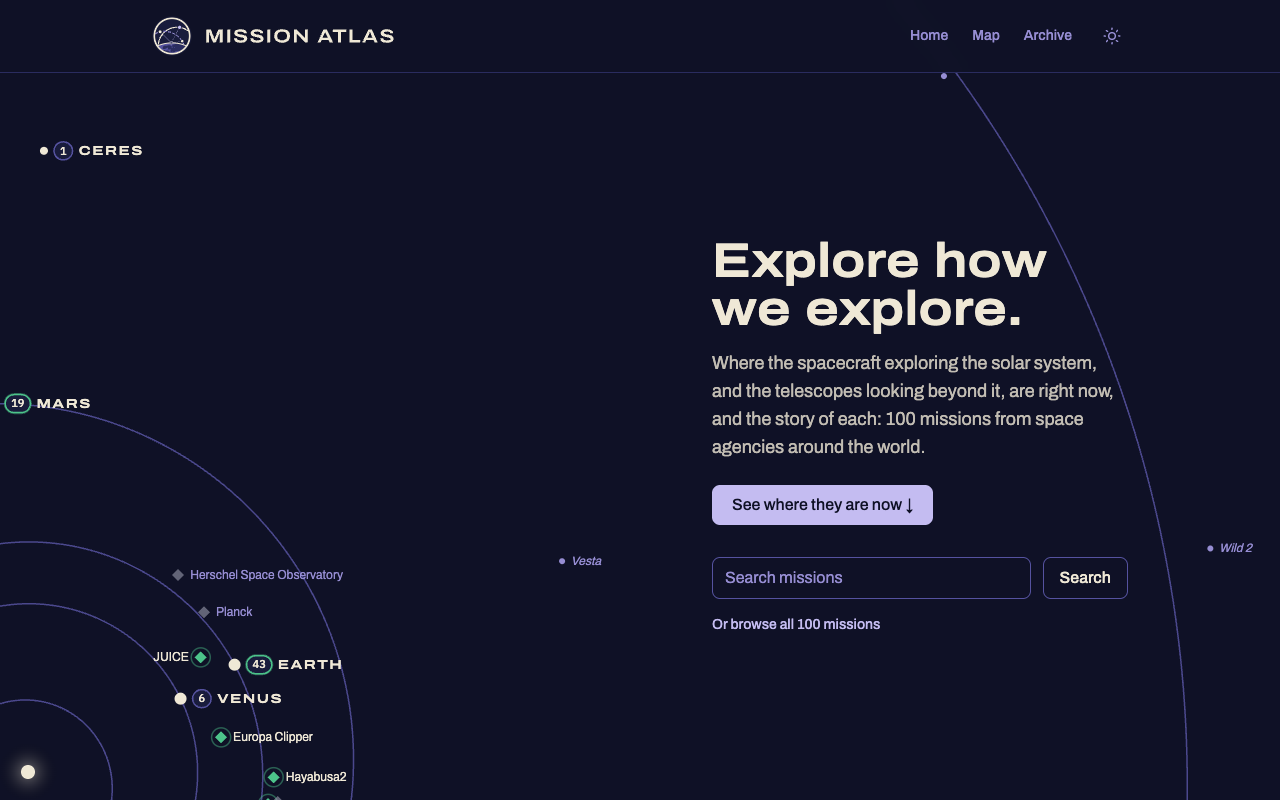
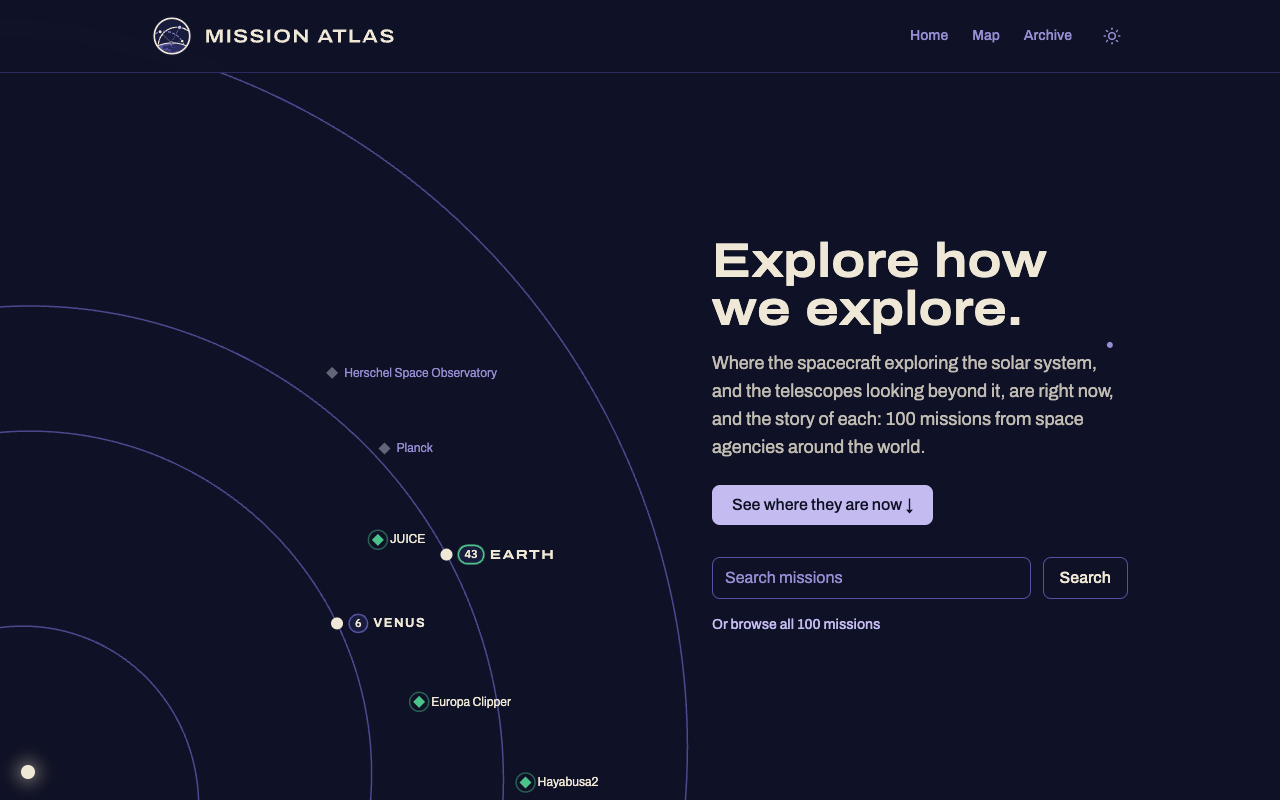
Home hero: zoom in to Mars
The hero's quarter of the map now reaches out to Mars: its orbit spans
the shorter side of the screen, so Mercury, Venus, Earth and the craft
around them fill the corner. On phones, where the search covers most of
the screen, the map fades out behind the text and shows below it.

diff --git a/src/components/map/map-preview.tsx b/src/components/map/map-preview.tsx
@@ -40,11 +40,11 @@ type Props = {
 };
 
 // The hero shows a quarter of the map: the Sun in the bottom-left corner,
-// this far in, and the inner planets large, with Jupiter's orbit the
-// outermost arc, nearly reaching across the longer side of the screen.
+// this far in, and the inner planets close up, with Mars's orbit reaching
+// across the shorter side of the screen.
 const CORNER_INSET = 28;
-const JUPITER_AU = 5.2;
-const JUPITER_SHARE = 0.95;
+const MARS_AU = 1.52;
+const MARS_SHARE = 0.9;
 
 // The map section shows everything out past Jupiter's orbit around the Sun,
 // or just the inner planets on a narrow screen.
@@ -87,7 +87,7 @@ function cameraAt(
   const start = {
     x: CORNER_INSET,
     y: height - CORNER_INSET,
-    scale: (Math.max(width, height) * JUPITER_SHARE) / JUPITER_AU,
+    scale: (Math.min(width, height) * MARS_SHARE) / MARS_AU,
   };
   const end = {
     x: width / 2,

diff --git a/src/components/home-hero.tsx b/src/components/home-hero.tsx
@@ -147,7 +147,9 @@ export default function HomeHero({ craft, names, missionCount }: Props) {
             opacity: "calc(1 - var(--p) * 2.5)",
             transform: "translateY(calc(var(--p) * -3rem))",
           }}
-          className="pointer-events-none absolute inset-x-0 bottom-0 top-[73px] flex items-start justify-end pl-6 pr-(--edge) pt-8 sm:items-center sm:pt-0"
+          // On phones the text covers most of the screen, so the map fades
+          // out behind it and shows below.
+          className="pointer-events-none absolute inset-x-0 bottom-0 top-[73px] flex items-start justify-end bg-linear-to-b from-background from-55% to-transparent to-75% pl-6 pr-(--edge) pt-8 sm:items-center sm:bg-none sm:pt-0"
         >
           <div
             ref={searchRef}
